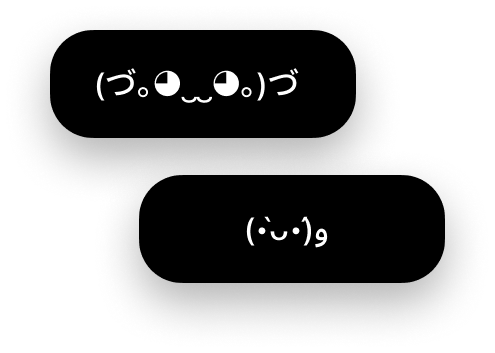
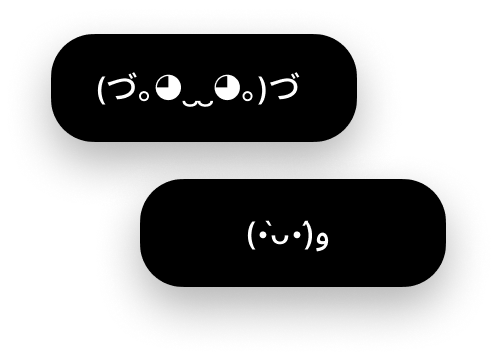
[Added] Spotlight features and styles

diff --git a/public/styles.css b/public/styles.css
@@ -1,1 +1,1 @@
-html,body,div,span,applet,object,iframe,h1,h2,h3,h4,h5,h6,p,blockquote,pre,a,abbr,acronym,address,big,cite,code,del,dfn,em,img,ins,kbd,q,s,samp,small,strike,strong,sub,sup,tt,var,b,u,i,center,dl,dt,dd,ol,ul,li,fieldset,form,label,legend,table,caption,tbody,tfoot,thead,tr,th,td,article,aside,canvas,details,embed,figure,figcaption,footer,header,hgroup,menu,nav,output,ruby,section,summary,time,mark,audio,video{margin:0;padding:0;border:0;font-size:100%;font:inherit;vertical-align:baseline}article,aside,details,figcaption,figure,footer,header,hgroup,menu,nav,section{display:block}body{line-height:1}ol,ul{list-style:none}blockquote,q{quotes:none}blockquote:before,blockquote:after,q:before,q:after{content:"";content:none}table{border-collapse:collapse;border-spacing:0}html{background-color:rgba(253,248,180,.15);font-family:"SF Pro",ui-sans-serif,system-ui,sans-serif;font-size:62.5%}*{box-sizing:border-box}@font-face{font-family:"GT Super Book";src:url("/assets/fonts/GTSuperBook.woff2") format("woff2"),url("/assets/fonts/GTSuperBook.woff") format("woff");font-weight:300;font-style:normal;font-display:swap}h1{font-family:"GT Super Book";font-weight:300;font-style:normal;font-size:6.4rem}p{font-size:2rem}.button{border-radius:1.6rem;background:#222;cursor:pointer;display:inline-block;position:relative;color:#fdf8b4;font-size:20px;min-width:180px;padding:2rem 3.6rem;text-align:center;text-decoration:none;font-weight:bold;transform:translateY(0);transition:transform .3s cubic-bezier(0.5, 2.5, 0.7, 0.7),box-shadow .3s cubic-bezier(0.5, 2.5, 0.7, 0.7),filter .3s cubic-bezier(0.5, 2.5, 0.7, 0.7)}.button:hover{background:#ff8c04;box-shadow:0 0 0 1px #222,0 5px 0 0 #222;transform:translateY(-5px);color:#222}@media(max-width: 499px){.button,button{display:block;width:100%}}.page{padding:1.2rem;margin:auto;max-width:1100px;width:100%}.page>*+*{margin-top:1.2rem}@media(min-width: 1100px){.page{padding:0}}header{padding:2rem}.introduction{text-align:center;max-width:755px;margin:0 auto 10.8rem;width:100%;display:flex;flex-direction:column;justify-content:center;align-items:center;gap:3.6rem}.introduction>p{max-width:638px;margin:auto;line-height:1.25}.ios-icon{max-width:100px;width:100%;margin-bottom:2rem}@keyframes draw{100%{stroke-dashoffset:0}}.hero{background-image:url("/assets/img/background/hero.png");background-repeat:no-repeat;background-size:cover;display:flex;align-items:center;justify-content:center;border-radius:3.6rem}.lock-screen{position:relative;width:88%;margin:auto;max-width:960px}.lock-screen>img{display:block;max-width:100%}.mac__privacy{position:absolute;left:12%;top:16%;width:100%;height:auto}.mac__privacy a{height:40px;width:40px;display:flex;align-items:center;justify-content:center;cursor:pointer;z-index:0;border-radius:1.2rem;padding:.8rem;position:relative}.mac__privacy a>img{display:block;max-width:100%;position:absolute;transition:all .5s ease;z-index:2}.mac__privacy__img{transform:scale(0)}.mac__privacy__img-hover{transform:scale(1)}.classified{position:absolute;left:0;bottom:10%;width:100%}.classified>svg{animation:draw .8s ease-in forwards;display:block;max-width:100%;transition:all .5s;width:50%;height:auto}@media(min-width: 1100px){.mac__privacy a:hover .mac__privacy__img{transform:scale(0)}.mac__privacy a:hover .mac__privacy__img-hover{transform:scale(1)}.mac__privacy__img{transform:scale(1)}.mac__privacy__img-hover{transform:scale(0)}.lock-screen{width:100%}}/*# sourceMappingURL=styles.css.map */
+html,body,div,span,applet,object,iframe,h1,h2,h3,h4,h5,h6,p,blockquote,pre,a,abbr,acronym,address,big,cite,code,del,dfn,em,img,ins,kbd,q,s,samp,small,strike,strong,sub,sup,tt,var,b,u,i,center,dl,dt,dd,ol,ul,li,fieldset,form,label,legend,table,caption,tbody,tfoot,thead,tr,th,td,article,aside,canvas,details,embed,figure,figcaption,footer,header,hgroup,menu,nav,output,ruby,section,summary,time,mark,audio,video{margin:0;padding:0;border:0;font-size:100%;font:inherit;vertical-align:baseline}article,aside,details,figcaption,figure,footer,header,hgroup,menu,nav,section{display:block}body{line-height:1}ol,ul{list-style:none}blockquote,q{quotes:none}blockquote:before,blockquote:after,q:before,q:after{content:"";content:none}table{border-collapse:collapse;border-spacing:0}html{background-color:rgba(253,248,180,.15);font-family:"SF Pro",ui-sans-serif,system-ui,sans-serif;font-size:62.5%}*{box-sizing:border-box}@font-face{font-family:"GT Super Book";src:url("/assets/fonts/GTSuperBook.woff2") format("woff2"),url("/assets/fonts/GTSuperBook.woff") format("woff");font-weight:300;font-style:normal;font-display:swap}h1{font-family:"GT Super Book";font-weight:300;font-style:normal;color:#222;font-size:6.4rem}h3{color:#fff;font-size:4rem;font-weight:bold;line-height:1.25}p{font-size:2rem;line-height:1.25}.button{border-radius:1.6rem;background:#222;cursor:pointer;display:inline-block;position:relative;color:#fdf8b4;font-size:20px;min-width:180px;padding:2rem 3.6rem;text-align:center;text-decoration:none;font-weight:bold;transform:translateY(0);transition:transform .3s cubic-bezier(0.5, 2.5, 0.7, 0.7),box-shadow .3s cubic-bezier(0.5, 2.5, 0.7, 0.7),filter .3s cubic-bezier(0.5, 2.5, 0.7, 0.7)}.button:hover{background:#ff8c04;box-shadow:0 0 0 1px #222,0 5px 0 0 #222;transform:translateY(-5px);color:#222}@media(max-width: 499px){.button,button{display:block;width:100%}}.page{padding:1.2rem;margin:auto;max-width:1100px;width:100%}.page>*+*{margin-top:4.4rem}@media(min-width: 1100px){.page{padding:0}}header{padding:2rem}.introduction{text-align:center;max-width:755px;margin:0 auto 10.8rem;width:100%;display:flex;flex-direction:column;justify-content:center;align-items:center;gap:3.6rem}.introduction>p{max-width:638px;margin:auto;line-height:1.25}.ios-icon{max-width:100px;width:100%;margin-bottom:2rem}@keyframes draw{100%{stroke-dashoffset:0}}.hero{background-image:url("/assets/img/background/hero.png");background-repeat:no-repeat;background-size:cover;display:flex;align-items:center;justify-content:center;border-radius:3.6rem}.lock-screen{position:relative;width:88%;margin:auto;max-width:960px}.lock-screen>img{display:block;max-width:100%}.mac__privacy{position:absolute;left:12%;top:16%;width:100%;height:auto}.mac__privacy a{height:40px;width:40px;display:flex;align-items:center;justify-content:center;cursor:pointer;z-index:0;border-radius:1.2rem;padding:.8rem;position:relative}.mac__privacy a>img{display:block;max-width:100%;position:absolute;transition:all .5s ease;z-index:2}.mac__privacy__img{transform:scale(0)}.mac__privacy__img-hover{transform:scale(1)}.classified{position:absolute;left:0;bottom:10%;width:100%}.classified>svg{animation:draw .8s ease-in forwards;display:block;max-width:100%;transition:all .5s;width:50%;height:auto}@media(min-width: 1100px){.mac__privacy a:hover .mac__privacy__img{transform:scale(0)}.mac__privacy a:hover .mac__privacy__img-hover{transform:scale(1)}.mac__privacy__img{transform:scale(1)}.mac__privacy__img-hover{transform:scale(0)}.lock-screen{width:100%}}.spotlight{border-radius:3.6rem;display:flex;align-items:anchor-center;justify-content:space-between}.spotlight p{color:#fff}.spotlight__media{max-width:500px;width:100%}.spotlight__details{padding:3.6rem}.spotlight__details>*+*{margin-top:2rem}.spotlight--one{background-color:#feb000}.spotlight--two{background-color:#83180f}.spotlight--three{background-color:#feb000}.spotlight--four{background-color:#dc1c06}/*# sourceMappingURL=styles.css.map */

diff --git a/src/styles.css b/src/styles.css
@@ -1,1 +1,1 @@
-html,body,div,span,applet,object,iframe,h1,h2,h3,h4,h5,h6,p,blockquote,pre,a,abbr,acronym,address,big,cite,code,del,dfn,em,img,ins,kbd,q,s,samp,small,strike,strong,sub,sup,tt,var,b,u,i,center,dl,dt,dd,ol,ul,li,fieldset,form,label,legend,table,caption,tbody,tfoot,thead,tr,th,td,article,aside,canvas,details,embed,figure,figcaption,footer,header,hgroup,menu,nav,output,ruby,section,summary,time,mark,audio,video{margin:0;padding:0;border:0;font-size:100%;font:inherit;vertical-align:baseline}article,aside,details,figcaption,figure,footer,header,hgroup,menu,nav,section{display:block}body{line-height:1}ol,ul{list-style:none}blockquote,q{quotes:none}blockquote:before,blockquote:after,q:before,q:after{content:"";content:none}table{border-collapse:collapse;border-spacing:0}html{background-color:rgba(253,248,180,.15);font-family:"SF Pro",ui-sans-serif,system-ui,sans-serif;font-size:62.5%}*{box-sizing:border-box}@font-face{font-family:"GT Super Book";src:url("/assets/fonts/GTSuperBook.woff2") format("woff2"),url("/assets/fonts/GTSuperBook.woff") format("woff");font-weight:300;font-style:normal;font-display:swap}h1{font-family:"GT Super Book";font-weight:300;font-style:normal;font-size:6.4rem}p{font-size:2rem}.button{border-radius:1.6rem;background:#222;cursor:pointer;display:inline-block;position:relative;color:#fdf8b4;font-size:20px;min-width:180px;padding:2rem 3.6rem;text-align:center;text-decoration:none;font-weight:bold;transform:translateY(0);transition:transform .3s cubic-bezier(0.5, 2.5, 0.7, 0.7),box-shadow .3s cubic-bezier(0.5, 2.5, 0.7, 0.7),filter .3s cubic-bezier(0.5, 2.5, 0.7, 0.7)}.button:hover{background:#ff8c04;box-shadow:0 0 0 1px #222,0 5px 0 0 #222;transform:translateY(-5px);color:#222}@media(max-width: 499px){.button,button{display:block;width:100%}}.page{padding:1.2rem;margin:auto;max-width:1100px;width:100%}.page>*+*{margin-top:1.2rem}@media(min-width: 1100px){.page{padding:0}}header{padding:2rem}.introduction{text-align:center;max-width:755px;margin:0 auto 10.8rem;width:100%;display:flex;flex-direction:column;justify-content:center;align-items:center;gap:3.6rem}.introduction>p{max-width:638px;margin:auto;line-height:1.25}.ios-icon{max-width:100px;width:100%;margin-bottom:2rem}@keyframes draw{100%{stroke-dashoffset:0}}.hero{background-image:url("/assets/img/background/hero.png");background-repeat:no-repeat;background-size:cover;display:flex;align-items:center;justify-content:center;border-radius:3.6rem}.lock-screen{position:relative;width:88%;margin:auto;max-width:960px}.lock-screen>img{display:block;max-width:100%}.mac__privacy{position:absolute;left:12%;top:16%;width:100%;height:auto}.mac__privacy a{height:40px;width:40px;display:flex;align-items:center;justify-content:center;cursor:pointer;z-index:0;border-radius:1.2rem;padding:.8rem;position:relative}.mac__privacy a>img{display:block;max-width:100%;position:absolute;transition:all .5s ease;z-index:2}.mac__privacy__img{transform:scale(0)}.mac__privacy__img-hover{transform:scale(1)}.classified{position:absolute;left:0;bottom:10%;width:100%}.classified>svg{animation:draw .8s ease-in forwards;display:block;max-width:100%;transition:all .5s;width:50%;height:auto}@media(min-width: 1100px){.mac__privacy a:hover .mac__privacy__img{transform:scale(0)}.mac__privacy a:hover .mac__privacy__img-hover{transform:scale(1)}.mac__privacy__img{transform:scale(1)}.mac__privacy__img-hover{transform:scale(0)}.lock-screen{width:100%}}/*# sourceMappingURL=styles.css.map */
+html,body,div,span,applet,object,iframe,h1,h2,h3,h4,h5,h6,p,blockquote,pre,a,abbr,acronym,address,big,cite,code,del,dfn,em,img,ins,kbd,q,s,samp,small,strike,strong,sub,sup,tt,var,b,u,i,center,dl,dt,dd,ol,ul,li,fieldset,form,label,legend,table,caption,tbody,tfoot,thead,tr,th,td,article,aside,canvas,details,embed,figure,figcaption,footer,header,hgroup,menu,nav,output,ruby,section,summary,time,mark,audio,video{margin:0;padding:0;border:0;font-size:100%;font:inherit;vertical-align:baseline}article,aside,details,figcaption,figure,footer,header,hgroup,menu,nav,section{display:block}body{line-height:1}ol,ul{list-style:none}blockquote,q{quotes:none}blockquote:before,blockquote:after,q:before,q:after{content:"";content:none}table{border-collapse:collapse;border-spacing:0}html{background-color:rgba(253,248,180,.15);font-family:"SF Pro",ui-sans-serif,system-ui,sans-serif;font-size:62.5%}*{box-sizing:border-box}@font-face{font-family:"GT Super Book";src:url("/assets/fonts/GTSuperBook.woff2") format("woff2"),url("/assets/fonts/GTSuperBook.woff") format("woff");font-weight:300;font-style:normal;font-display:swap}h1{font-family:"GT Super Book";font-weight:300;font-style:normal;color:#222;font-size:6.4rem}h3{color:#fff;font-size:4rem;font-weight:bold;line-height:1.25}p{font-size:2rem;line-height:1.25}.button{border-radius:1.6rem;background:#222;cursor:pointer;display:inline-block;position:relative;color:#fdf8b4;font-size:20px;min-width:180px;padding:2rem 3.6rem;text-align:center;text-decoration:none;font-weight:bold;transform:translateY(0);transition:transform .3s cubic-bezier(0.5, 2.5, 0.7, 0.7),box-shadow .3s cubic-bezier(0.5, 2.5, 0.7, 0.7),filter .3s cubic-bezier(0.5, 2.5, 0.7, 0.7)}.button:hover{background:#ff8c04;box-shadow:0 0 0 1px #222,0 5px 0 0 #222;transform:translateY(-5px);color:#222}@media(max-width: 499px){.button,button{display:block;width:100%}}.page{padding:1.2rem;margin:auto;max-width:1100px;width:100%}.page>*+*{margin-top:4.4rem}@media(min-width: 1100px){.page{padding:0}}header{padding:2rem}.introduction{text-align:center;max-width:755px;margin:0 auto 10.8rem;width:100%;display:flex;flex-direction:column;justify-content:center;align-items:center;gap:3.6rem}.introduction>p{max-width:638px;margin:auto;line-height:1.25}.ios-icon{max-width:100px;width:100%;margin-bottom:2rem}@keyframes draw{100%{stroke-dashoffset:0}}.hero{background-image:url("/assets/img/background/hero.png");background-repeat:no-repeat;background-size:cover;display:flex;align-items:center;justify-content:center;border-radius:3.6rem}.lock-screen{position:relative;width:88%;margin:auto;max-width:960px}.lock-screen>img{display:block;max-width:100%}.mac__privacy{position:absolute;left:12%;top:16%;width:100%;height:auto}.mac__privacy a{height:40px;width:40px;display:flex;align-items:center;justify-content:center;cursor:pointer;z-index:0;border-radius:1.2rem;padding:.8rem;position:relative}.mac__privacy a>img{display:block;max-width:100%;position:absolute;transition:all .5s ease;z-index:2}.mac__privacy__img{transform:scale(0)}.mac__privacy__img-hover{transform:scale(1)}.classified{position:absolute;left:0;bottom:10%;width:100%}.classified>svg{animation:draw .8s ease-in forwards;display:block;max-width:100%;transition:all .5s;width:50%;height:auto}@media(min-width: 1100px){.mac__privacy a:hover .mac__privacy__img{transform:scale(0)}.mac__privacy a:hover .mac__privacy__img-hover{transform:scale(1)}.mac__privacy__img{transform:scale(1)}.mac__privacy__img-hover{transform:scale(0)}.lock-screen{width:100%}}.spotlight{border-radius:3.6rem;display:flex;align-items:anchor-center;justify-content:space-between}.spotlight p{color:#fff}.spotlight__media{max-width:500px;width:100%}.spotlight__details{padding:3.6rem}.spotlight__details>*+*{margin-top:2rem}.spotlight--one{background-color:#feb000}.spotlight--two{background-color:#83180f}.spotlight--three{background-color:#feb000}.spotlight--four{background-color:#dc1c06}/*# sourceMappingURL=styles.css.map */

diff --git a/public/index.html b/public/index.html
@@ -148,7 +148,47 @@
     </div>
   </div>
 </section>
-       
+ <section class="spotlight spotlight--one">
+  <img
+    class="spotlight__media"
+    src="/assets/img/spotlight/movie-line.png"
+    alt="Screenshot of iOS lock screen highlighting the ability to put a movie quote next to the date and time." />
+  <div class="spotlight__details">
+    <h3>Your Favorite Line, Now on the Lock Screen.</h3>
+    <p>See the line that inspires, motivates, or just makes you laugh every time you pick up your phone.</p>
+  </div>
+</section>
+ <section class="spotlight spotlight--two">
+  <img
+    class="spotlight__media"
+    src="/assets/img/spotlight/little-things.png"
+    alt="Screenshot of iOS widget highlighting the ability to put an important reminder on the lock screen." />
+  <div class="spotlight__details">
+    <h3>For the little things that are everything.</h3>
+    <p>Keep that soccer game time, piano recital date, or simple "Don't forget to call Mom" reminder right where you'll always see it.</p>
+  </div>
+</section>
+ <section class="spotlight spotlight--three">
+  <img
+    class="spotlight__media"
+    src="/assets/img/spotlight/emojis.png"
+    alt="Screenshot of iOS lock screen highlighting the ability to put emojis next to the date and time." />
+  <div class="spotlight__details">
+    <h3>For feelings that don't need words.</h3>
+    <p>Set the tone for your day with a personal vibe check, giving yourself a small, visual reminder of the energy you want to carry.</p>
+  </div>
+</section>
+ <section class="spotlight spotlight--four">
+  <img
+    class="spotlight__media"
+    src="/assets/img/spotlight/kaomoji.png"
+    alt="Screenshot of iOS lock screen highlighting the ability to put kaomoji next to the date and time." />
+  <div class="spotlight__details">
+    <h3>Say more with Kaomoji.</h3>
+    <p>Add a touch of personality with expressive Japanese emoticons that perfectly capture your mood, from a happy dance to a determined fist pump.</p>
+  </div>
+</section>
+   
       </div>
     </div>
 

diff --git a/src/scss/_spotlight.scss b/src/scss/_spotlight.scss
@@ -1,0 +1,52 @@
+/*
+--
+-- SPOTLIGHT
+--
+*/
+
+/*
+-- _includes
+*/
+@use "tokens";
+@use "mixins";
+
+/*------------------------------*/
+.spotlight {
+  border-radius: tokens.$xxlarge;
+  display: flex;
+  align-items: anchor-center;
+  justify-content: space-between;
+
+  p {
+    color: tokens.$white;
+  }
+}
+
+.spotlight__media {
+  max-width: 500px;
+  width: 100%;
+}
+
+.spotlight__details {
+  padding: tokens.$xxlarge;
+
+  > * + * {
+    margin-top: tokens.$xlarge;
+  }
+}
+
+.spotlight--one {
+  background-color: tokens.$goldenrod;
+}
+
+.spotlight--two {
+  background-color: tokens.$merlot;
+}
+
+.spotlight--three {
+  background-color: tokens.$goldenrod;
+}
+
+.spotlight--four {
+  background-color: tokens.$cherry;
+}

diff --git a/src/_includes/spotlight-two.html b/src/_includes/spotlight-two.html
@@ -1,0 +1,10 @@
+<section class="spotlight spotlight--two">
+  <img
+    class="spotlight__media"
+    src="/assets/img/spotlight/little-things.png"
+    alt="Screenshot of iOS widget highlighting the ability to put an important reminder on the lock screen." />
+  <div class="spotlight__details">
+    <h3>For the little things that are everything.</h3>
+    <p>Keep that soccer game time, piano recital date, or simple "Don't forget to call Mom" reminder right where you'll always see it.</p>
+  </div>
+</section>

diff --git a/src/_includes/spotlight-four.html b/src/_includes/spotlight-four.html
@@ -1,0 +1,10 @@
+<section class="spotlight spotlight--four">
+  <img
+    class="spotlight__media"
+    src="/assets/img/spotlight/kaomoji.png"
+    alt="Screenshot of iOS lock screen highlighting the ability to put kaomoji next to the date and time." />
+  <div class="spotlight__details">
+    <h3>Say more with Kaomoji.</h3>
+    <p>Add a touch of personality with expressive Japanese emoticons that perfectly capture your mood, from a happy dance to a determined fist pump.</p>
+  </div>
+</section>

diff --git a/src/_includes/spotlight-three.html b/src/_includes/spotlight-three.html
@@ -1,0 +1,10 @@
+<section class="spotlight spotlight--three">
+  <img
+    class="spotlight__media"
+    src="/assets/img/spotlight/emojis.png"
+    alt="Screenshot of iOS lock screen highlighting the ability to put emojis next to the date and time." />
+  <div class="spotlight__details">
+    <h3>For feelings that don't need words.</h3>
+    <p>Set the tone for your day with a personal vibe check, giving yourself a small, visual reminder of the energy you want to carry.</p>
+  </div>
+</section>

diff --git a/src/_includes/spotlight-one.html b/src/_includes/spotlight-one.html
@@ -1,0 +1,10 @@
+<section class="spotlight spotlight--one">
+  <img
+    class="spotlight__media"
+    src="/assets/img/spotlight/movie-line.png"
+    alt="Screenshot of iOS lock screen highlighting the ability to put a movie quote next to the date and time." />
+  <div class="spotlight__details">
+    <h3>Your Favorite Line, Now on the Lock Screen.</h3>
+    <p>See the line that inspires, motivates, or just makes you laugh every time you pick up your phone.</p>
+  </div>
+</section>

diff --git a/src/scss/_typography.scss b/src/scss/_typography.scss
@@ -14,9 +14,18 @@
 
 h1 {
   @include font-face.GT;
+  color: tokens.$black;
   font-size: tokens.$h1;
+}
+
+h3 {
+  color: tokens.$white;
+  font-size: tokens.$h3;
+  font-weight: bold;
+  line-height: 1.25;
 }
 
 p {
   font-size: tokens.$copy;
+  line-height: 1.25;
 }

diff --git a/src/scss/_layout.scss b/src/scss/_layout.scss
@@ -18,7 +18,7 @@
   width: 100%;
 
   > * + * {
-    margin-top: tokens.$medium;
+    margin-top: tokens.$xxxlarge;
   }
 }
 

diff --git a/src/scss/_tokens.scss b/src/scss/_tokens.scss
@@ -35,6 +35,7 @@ $medium: 1.2rem;
 $large: 1.6rem;
 $xlarge: 2rem;
 $xxlarge: 3.6rem;
+$xxxlarge: 4.4rem;
 
 /*
 -- Layout

diff --git a/src/scss/main.scss b/src/scss/main.scss
@@ -13,3 +13,4 @@
 @use "_header";
 @use "introduction";
 @use "_hero";
+@use "_spotlight";
